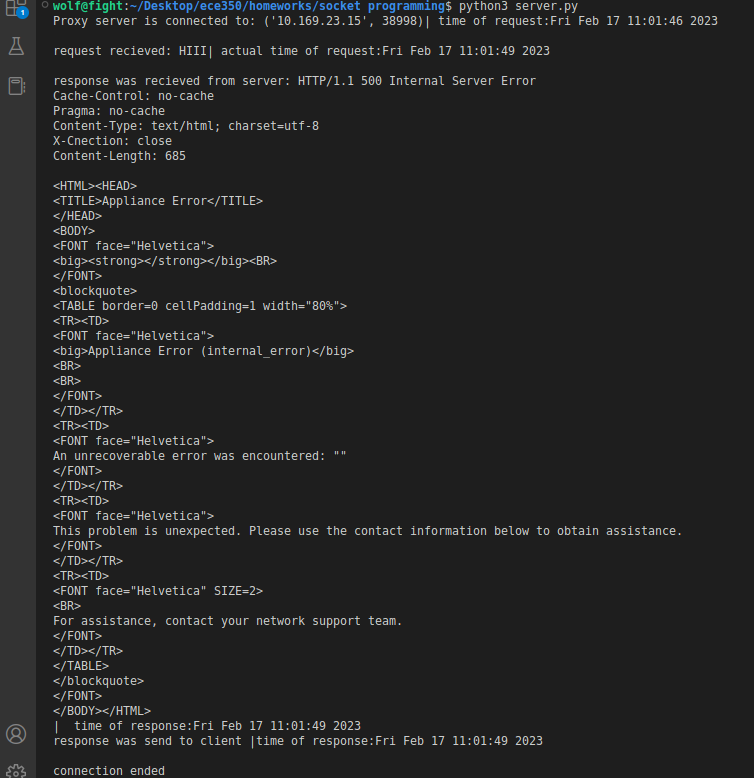
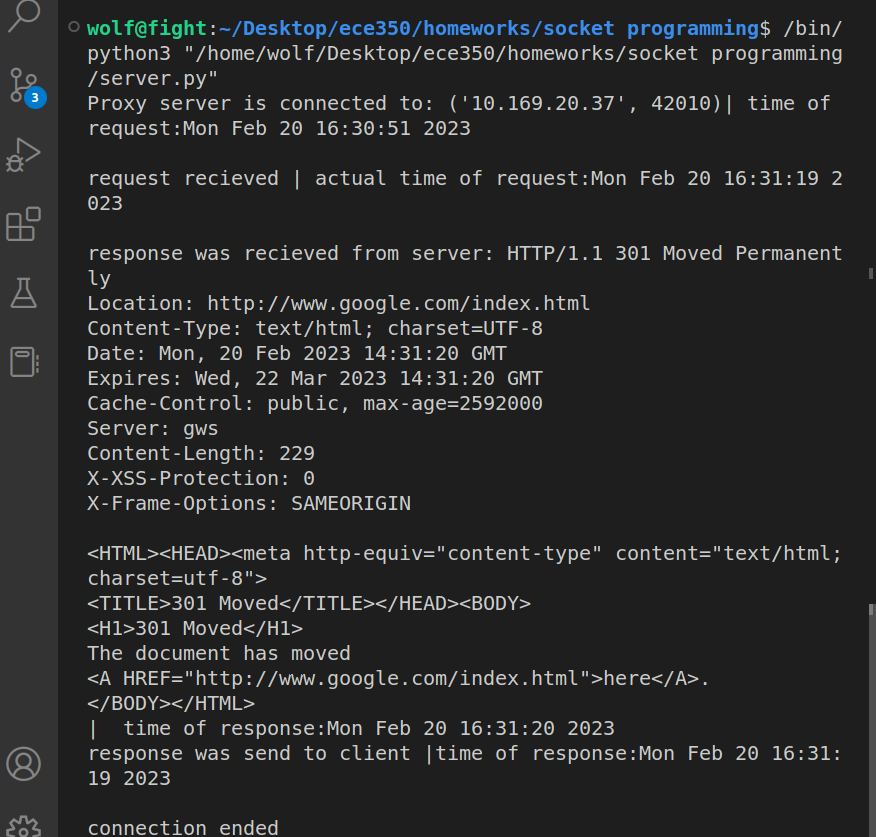
edits

diff --git a/server.py b/server.py
@@ -1,7 +1,7 @@
 import socket
 import time
 
-host= "10.169.23.15"#IP address for local host
+host= "10.169.20.37"#IP address for local host
 port=9899
 
 serv=socket.socket(socket.AF_INET,socket.SOCK_STREAM)#socket to accept connections
@@ -18,25 +18,26 @@ while True:
 
     #incase error from client side
     try:
-        dest_address=csocket.recv(1024)#taking address
-        #request=csocket.recv(112)#taking request#################################################
+        request=csocket.recv(1024).decode('ascii')#recieving request
+        dest_address=request[request.find("Host:")+6:(request).find("\r\n\r")]#taking address
+        
     except ConnectionRefusedError:
-        print("Message not recieved from client\n")
+        print("request not recieved from client\n")
         csocket.send("there was problem with your message\n")
 
-    message= "HIII"
+   #actual time of request
     actual_time=time.ctime()
 
     dest_socket = socket.socket(socket.AF_INET, socket.SOCK_STREAM)
     response=None
     try:#any error occuring here will be from  server side
-        dest_socket.connect((dest_address.decode('ascii'), 80))
+        dest_socket.connect((dest_address, 80))
         
         #send the client's request to the destination server
-        dest_socket.sendall(f"GET / HTTP/1.1\r\nHost:{dest_address}\r\n\r\n".encode('ascii'))
+        dest_socket.sendall(request.encode("ascii"))
 
         #printing the message with exact time of the actual request
-        print(f"request recieved: {message}| actual time of request:{actual_time}\n")
+        print(f"request recieved | actual time of request:{actual_time}\n")
 
         #receive the response from the destination server
         response = dest_socket.recv(1024).decode('ascii')
@@ -48,7 +49,7 @@ while True:
     print(f"response was recieved from server: {response}|  time of response:{time.ctime()}")
 
     #sending the client that response has been recieved
-    csocket.send((f"respose {response}|  time of request:{time.ctime()}").encode('ascii'))
+    csocket.send((f"respose {response}").encode('ascii'))
     print(f"response was send to client |time of response:{actual_time}\n")
 
 

diff --git a/client.py b/client.py
@@ -3,34 +3,30 @@ import time
 import uuid
 
 
-host= "10.169.23.15" #chosing host
+host= "10.169.20.37" #chosing host
 port=9899  #port number 
 
 csocket=socket.socket(socket.AF_INET, socket.SOCK_STREAM)#TCP
 
 csocket.connect((host,port)) 
 
-dest_address=input("what is the distination IP: ")
+dest_address=input("what is the destination IP: ")
+request=f"GET /index.html HTTP/1.1\r\nHost: {dest_address}\r\n\r\n".encode("utf-8")
+time_of_request=time.ctime()
+csocket.send(request)
 
-""""GET /hello.txt HTTP/1.1
-User-Agent: curl/7.64.1
-Host: www.example.com
-Accept-Language: en, mi
-client_socket.sendall(("GET / HTTP/1.1\r\n\r\nDestination: " + destination_ip).encode())
 
-"""
-request="hi"##################
-##request =input("what is your request: ")#######################
-print(f"request details:{request}  | time: {time.ctime()}")
+print(f"request details:{request}  | time: {time_of_request}")
 
 start = time.time()#to get round trip time
+recieve=csocket.recv(1024).decode('ascii')#recieve reply
+exact_time=time.ctime()#getting exact time
 
-exact_time=time.ctime()
-csocket.send(dest_address.encode('ascii'))
-csocket.send(request.encode('ascii'))
-
-print(f"{csocket.recv(1024).decode('ascii')} | exact time:{exact_time}\n")
+#recieving response and printing
+print( f"{recieve} | exact time:{exact_time}\n")
 end=time.time()#to get round trip time
+
+#getting MAC addres
 print ("The formatted MAC address is : ", end="")
 print (':'.join(['{:02x}'.format((uuid.getnode() >> elements) & 0xff)
 for elements in range(0,2*6,2)][::-1]))

diff --git a/test.py b/test.py
@@ -1,0 +1,5 @@
+d="10.169.23.15"
+h=f"GET /index.html HTTP/1.1\r\nHost: {d}\r\n\r\n"
+x=(h).find("Host:")
+print(h[(h).find("Host:")+6:(h).find("\r\n\r")])
+print(1)
